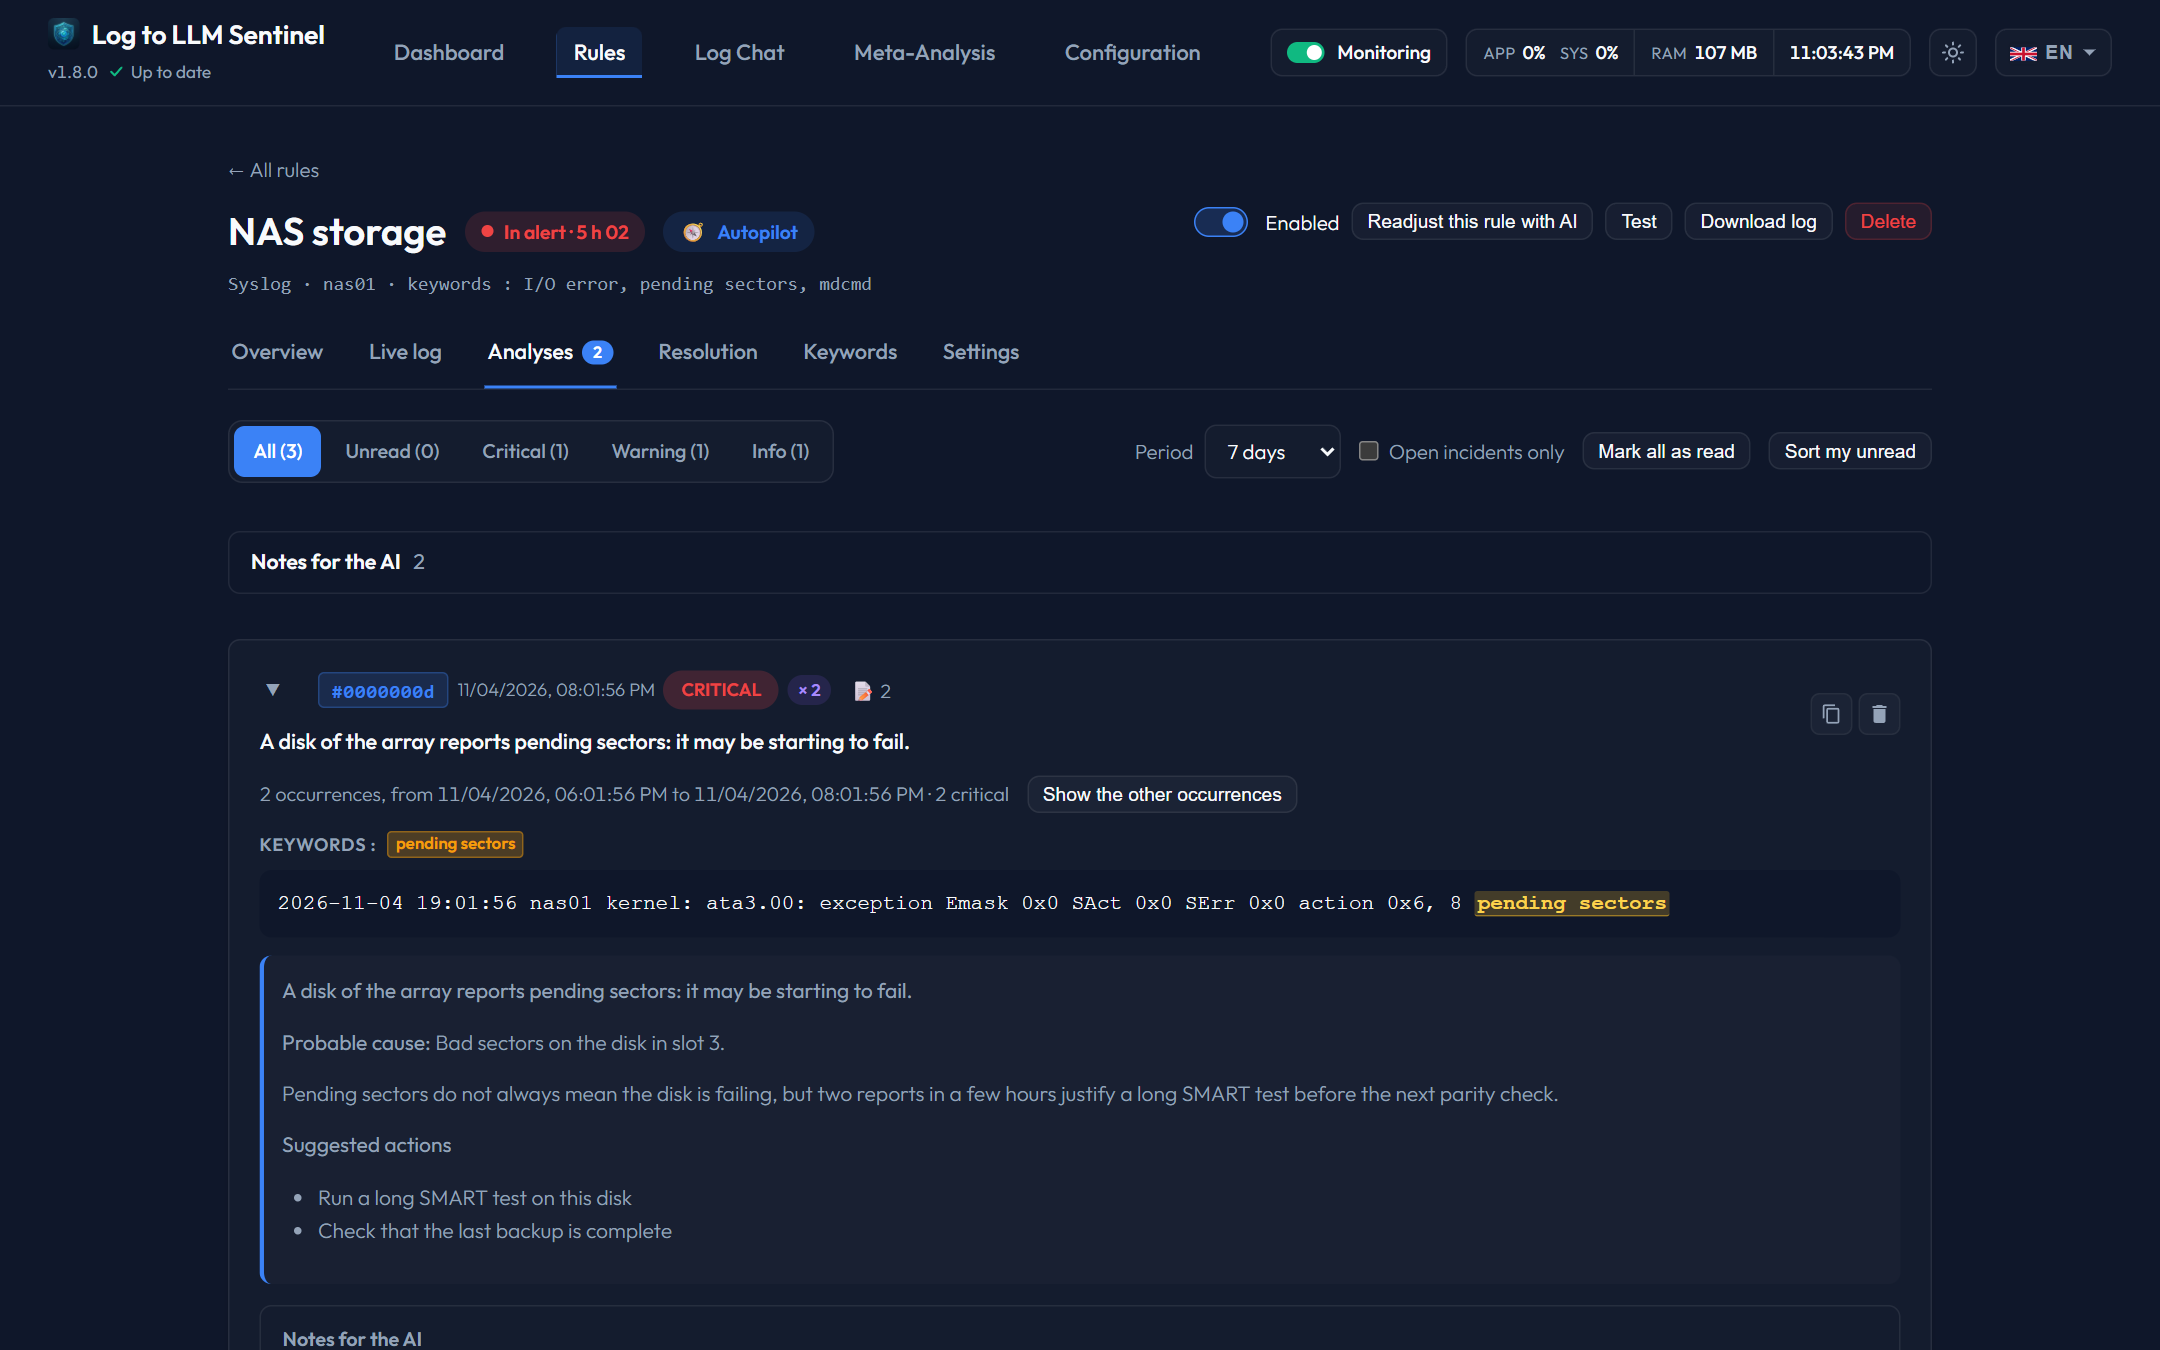
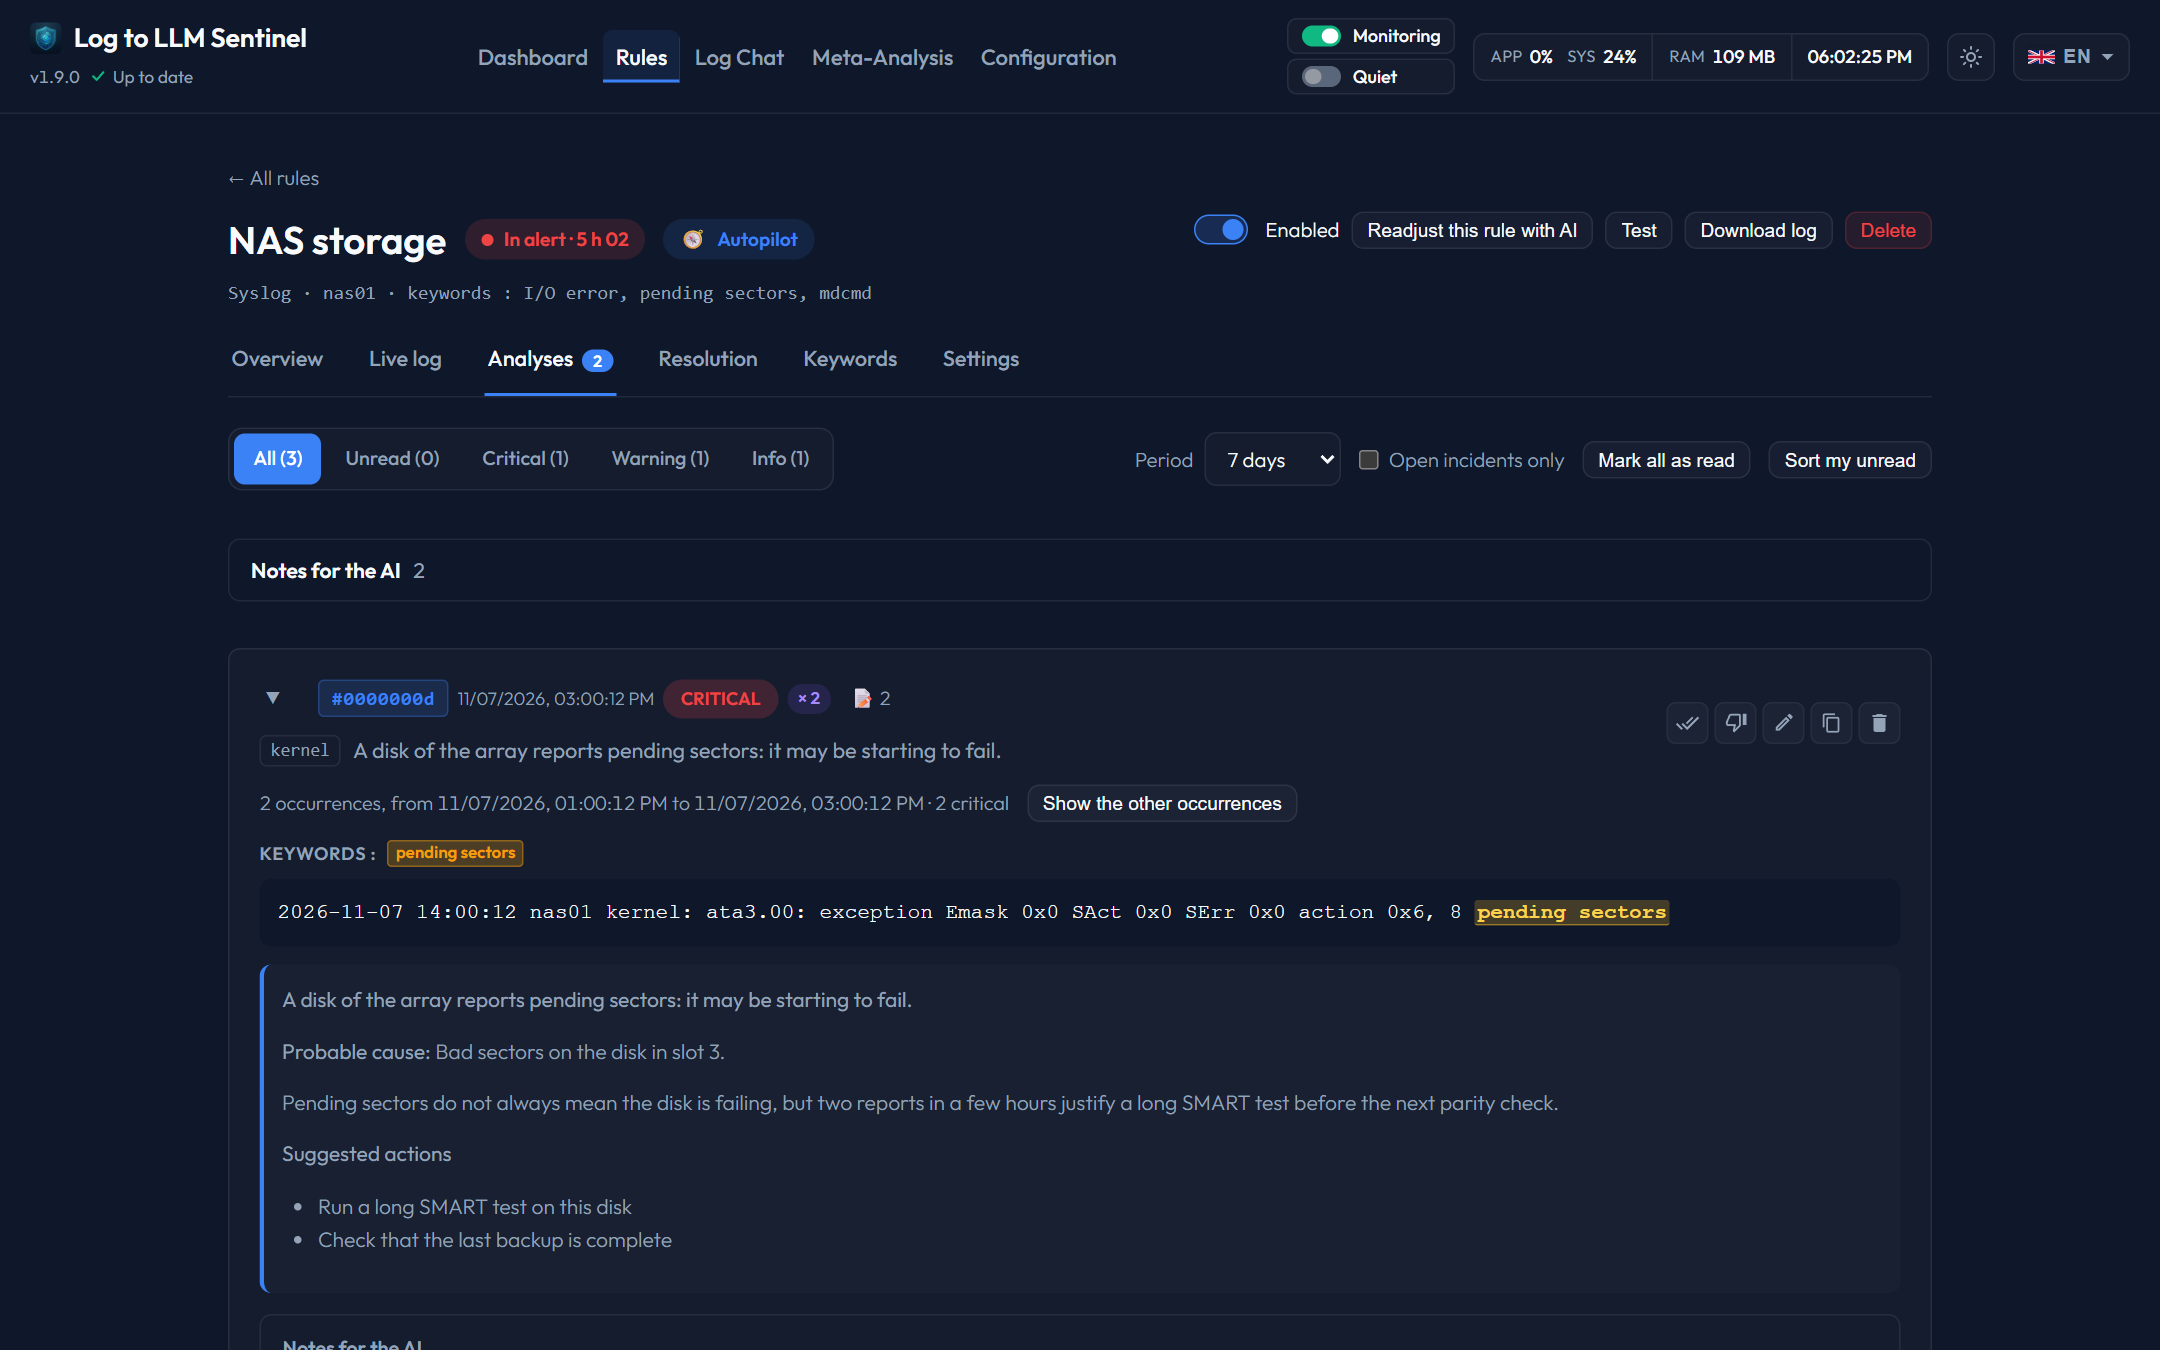
docs: screenshots refreshed for 1.9.0, new sources illustrated
All screenshots retaken on the invented demo instance with the 1.9.0 code
(header on one row, card quick actions, AI access in a rule, Home Assistant
and MQTT connections). Two new ones in the sources page: the Home Assistant
source with its connection guide, and the ready-made Fluent Bit setup.

diff --git a/docs/en/features/sources.md b/docs/en/features/sources.md
@@ -26,6 +26,8 @@ Use one rule per container.
 1. In Home Assistant, open your profile, **Security** tab, **Long-lived access tokens**, **Create token**. The account must be an administrator, because the log is reserved to administrators.
 2. In the rule form, choose **Home Assistant**, enter the address and the token, then click **Test**.
 
+![Home Assistant source and its connection guide](../../../screenshots/log-to-llm-sentinel_source_homeassistant.png)
+
 There is nothing to install in Home Assistant, and no change to `configuration.yaml`. Sentinel reads the system log every 10 seconds: warnings and errors, with their stack traces. Home Assistant does not publish other levels through this channel.
 
 The lines have the same form as the webhook automation from the README, so keywords and notes keep working if you switch a rule from the webhook to this source. You can then remove the automation.
@@ -49,6 +51,8 @@ A webhook rule also accepts the formats of log shippers, at two addresses built 
 * **OpenTelemetry logs (OTLP/HTTP)**: `<webhook URL>/v1/logs`, in JSON or Protobuf, with or without gzip. Used by the OpenTelemetry Collector and by applications that speak OTLP.
 
 The rule form gives ready-made configurations under **Send from a log shipper**, including **Windows event logs** through Fluent Bit.
+
+![Ready-made Fluent Bit configuration for a webhook rule](../../../screenshots/log-to-llm-sentinel_source_log_shipper.png)
 
 A line is prefixed with the name of its source when the sender gives one (`container`, `service_name`, `job`, `host`…). The time shown is the time of reception, not the time carried by the message.
 
